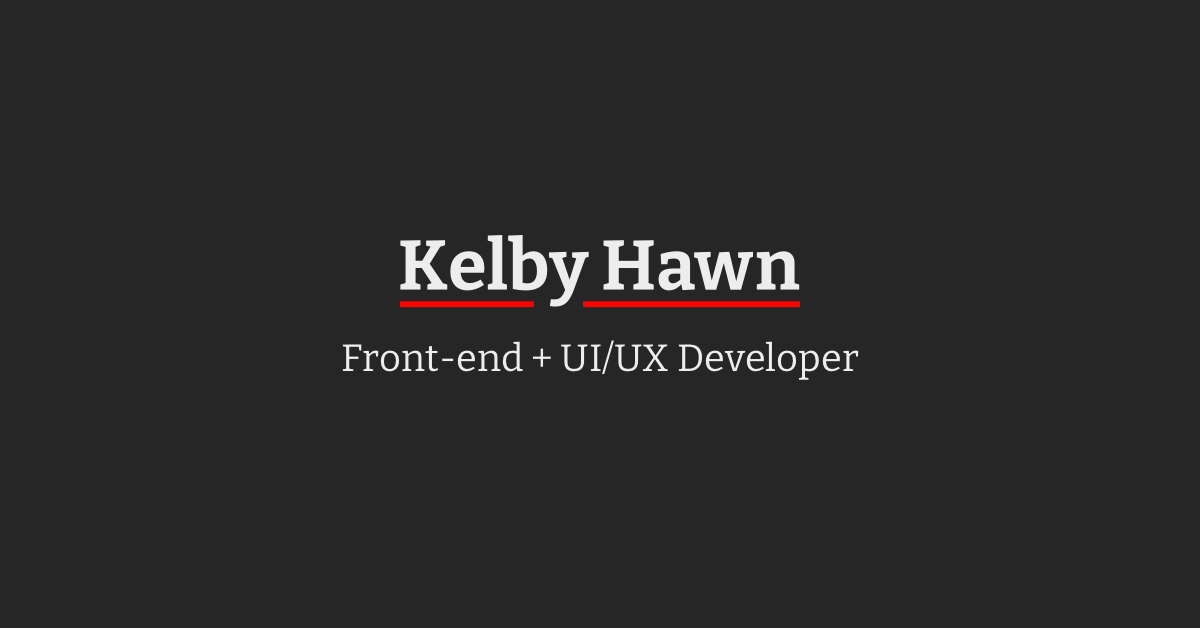
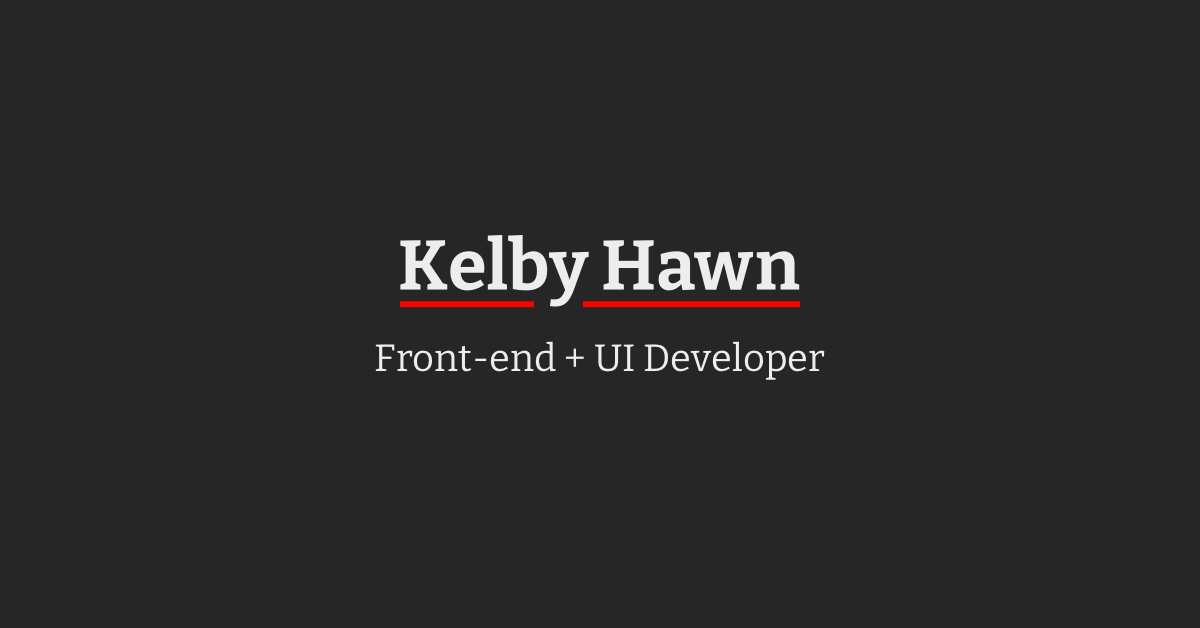
copy changes

Changed region(s): [[0.2775, 0.5446, 0.7092, 0.6051]]

diff --git a/index.html b/index.html
@@ -2,20 +2,20 @@
 <html lang="en">
 <head>
   <meta charset="UTF-8">
-  <title>Kelby Hawn | Front-end + UI/UX Developer</title>
-  <meta name="description" content="Hi, I'm a front-end + UI/UX developer with a background in product and web design.">
+  <title>Kelby Hawn | Front-end + UI Developer</title>
+  <meta name="description" content="Hi, I'm a front-end + UI developer with a background in product and web design.">
   <meta name="viewport" content="width=device-width, initial-scale=1">
   
   <link rel="stylesheet" type="text/css" href="/css/reset.css?01">
-  <link rel="stylesheet" type="text/css" href="/css/main.css?12">
+  <link rel="stylesheet" type="text/css" href="/css/main.css?13">
   
   <link rel="icon" type="image/png" href="https://kelbyhawn.com/favicon.png">
         
   <!-- Open Graph Tags -->
   <meta property="og:url" content="https://kelbyhawn.com">
   <meta property="og:type" content="website">
-  <meta property="og:title" content="Kelby Hawn | Front-end + UI/UX Developer">
-  <meta property="og:description" content="Hi, I'm a front-end + UI/UX developer with a background in product and web design.">
+  <meta property="og:title" content="Kelby Hawn | Front-end + UI Developer">
+  <meta property="og:description" content="Hi, I'm a front-end + UI developer with a background in product and web design.">
   <meta property="og:image" content="https://kelbyhawn.com/img/kh-opengraph.png">
   <meta property="og:image:width" content="1200">
   <meta property="og:image:height" content="628">
@@ -40,14 +40,14 @@
     <section class="top">
       <h1>Hi!</h1>
         <h2>I'm a design-minded gal who loves to <a class="light" href="https://codepen.io/kelbyhawn" target="_blank">code</a>.</h2>
-        <h3>✨ <a href="https://www.linkedin.com/in/kelby-hawn/" target="_blank" class="light">Currently looking</a> for an entry-mid level Front-end or UI/UX Developer position</h3>
+        <h3>✨ <a href="https://www.linkedin.com/in/kelby-hawn/" target="_blank" class="light">Currently looking</a> for an entry-mid level Front-end or UI Developer position</h3>
     </section> 
 
     <a id="about"></a>
     <section class="about">
         <h3><strong>About Me</strong> <span>&darr;</span></h3>
         <img src="img/me.png" alt="Kelby Hawn">
-        <p>I'm a front-end + UI/UX developer with a background in design. After <a href="https://www.crunchbase.com/person/kelby-hawn" target="_blank">co-founding two successful startups</a> as a product and web designer, I've switched fully into code mode and spent 2021 on sabbatical learning JavaScript, React, and other front-end technologies.</p>
+        <p>I'm a front-end + UI developer with a background in design. After <a href="https://www.crunchbase.com/person/kelby-hawn" target="_blank">co-founding two successful startups</a> as a product/web designer, I've switched fully into code mode and spent 2021 on sabbatical learning JavaScript, React, and other front-end technologies.</p>
 
         <p>I love translating design into code and solving problems in a practical and mindful way while collaborating with others. I also enjoy helping people <a href="https://www.instagram.com/tidywithkelby/" target="_blank">tidy up</a> and am a member and volunteer at <a href="https://seattleinsight.org/" target="_blank">SIMS</a>.</p>
     </section>

diff --git a/sass/main.sass b/sass/main.sass
@@ -152,7 +152,7 @@ section.top
       font-size: 4.2em
 
     h3
-      width: 80%
+      width: 250px
       margin: 0 auto
       line-height: 1.4
 
@@ -166,7 +166,7 @@ section.about, section.side-projects
 section.about
 
   @media screen and (max-width: $width-sm)
-    max-width: 338px
+    max-width: 335px
     margin: 0 auto
 
   @media screen and (max-width: $width-xs)

diff --git a/css/main.css b/css/main.css
@@ -176,7 +176,7 @@ section.top h3 {
     font-size: 4.2em;
   }
   section.top h3 {
-    width: 80%;
+    width: 250px;
     margin: 0 auto;
     line-height: 1.4;
   }
@@ -188,7 +188,7 @@ section.about, section.side-projects {
 
 @media screen and (max-width: 640px) {
   section.about {
-    max-width: 338px;
+    max-width: 335px;
     margin: 0 auto;
   }
 }
